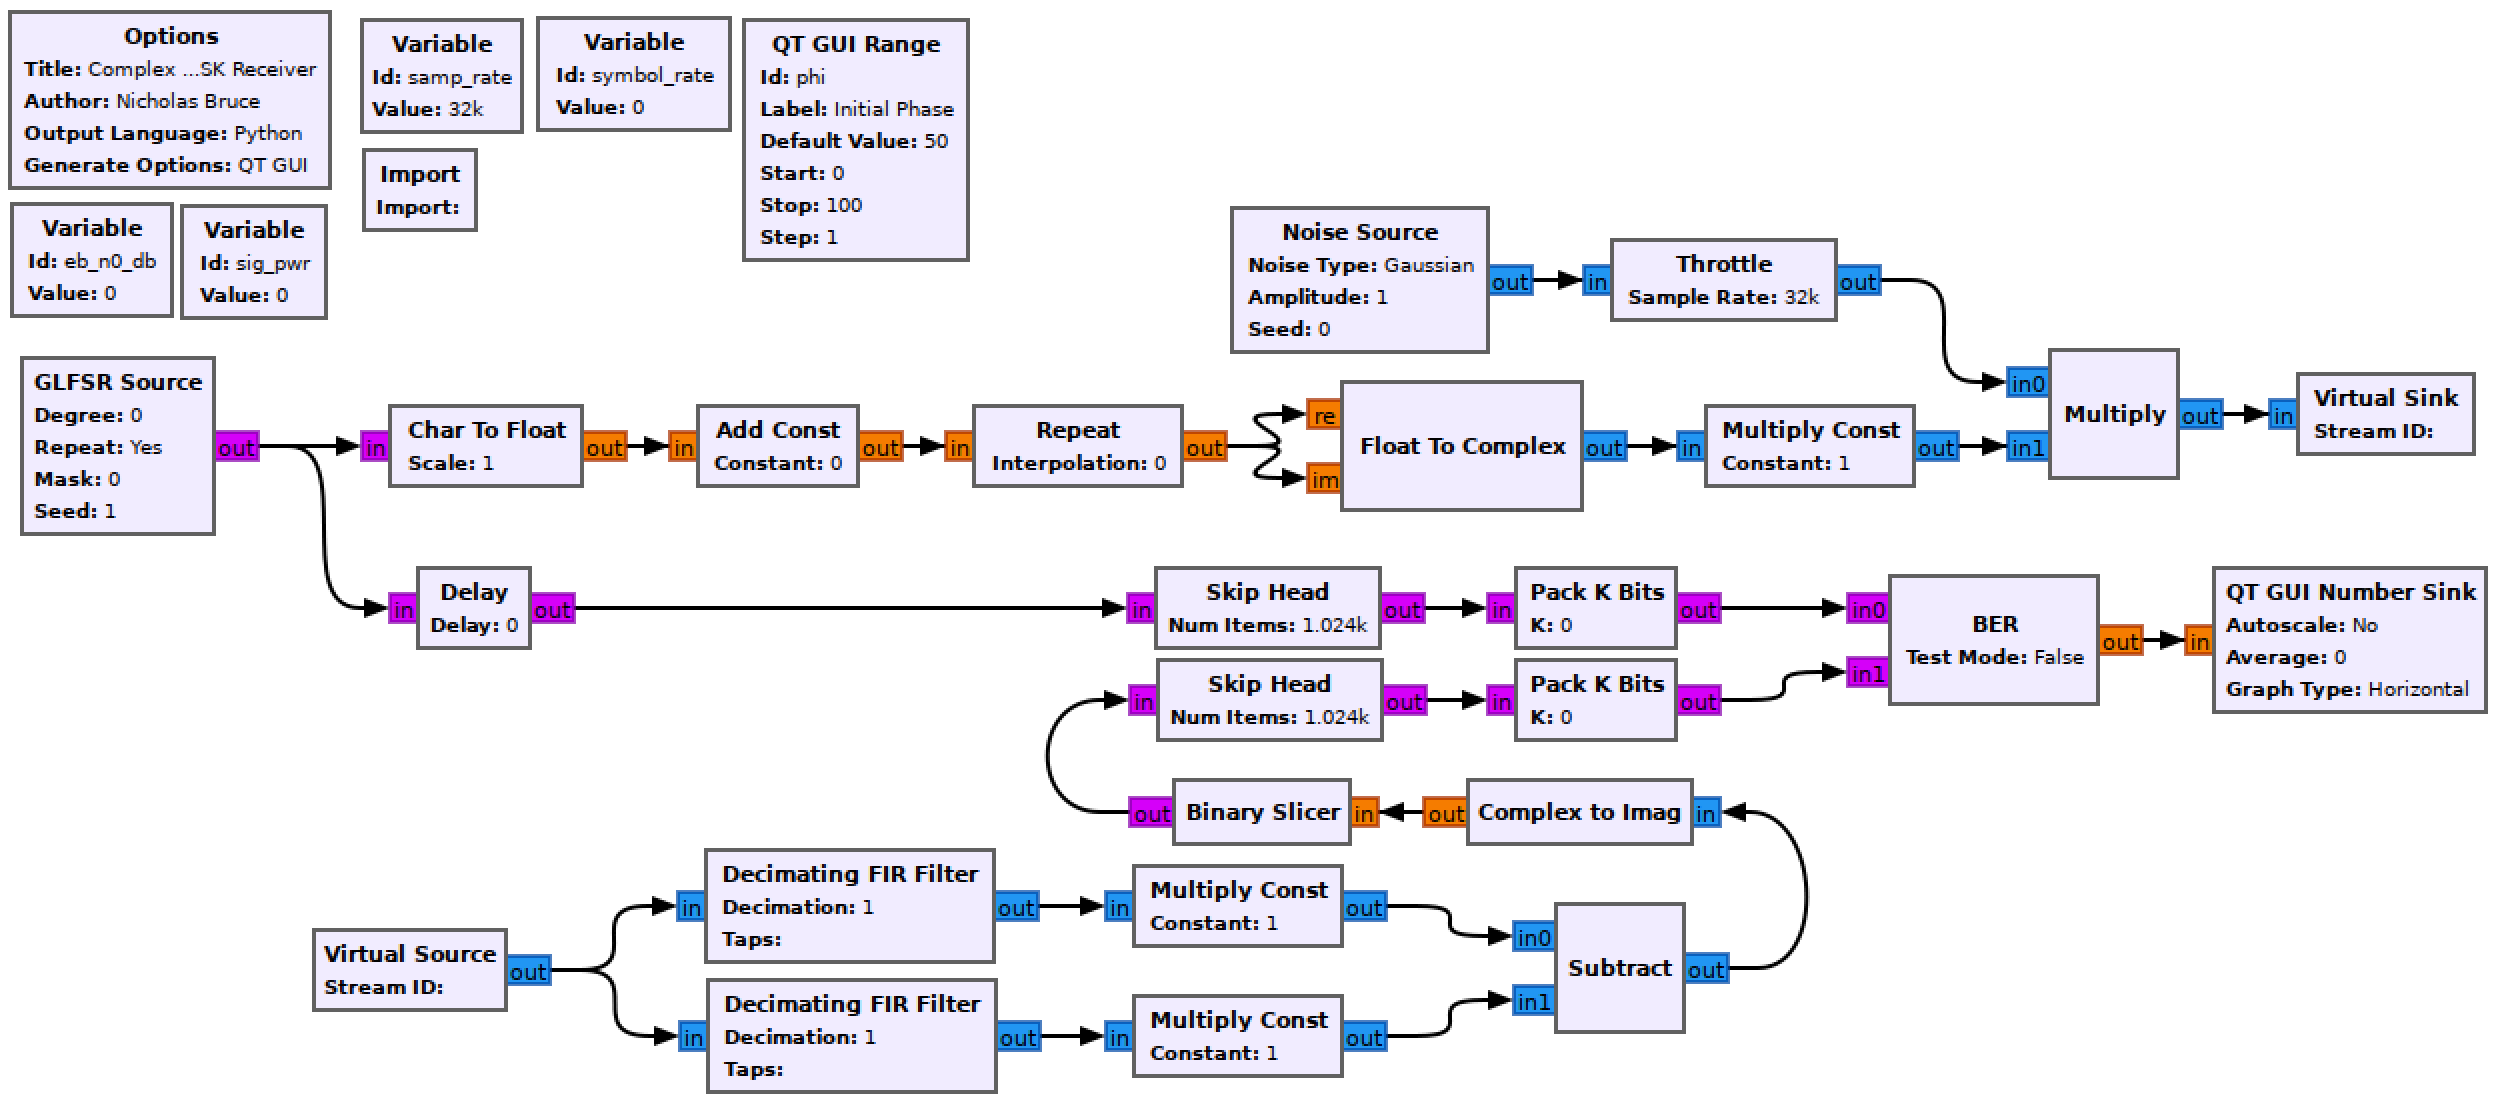
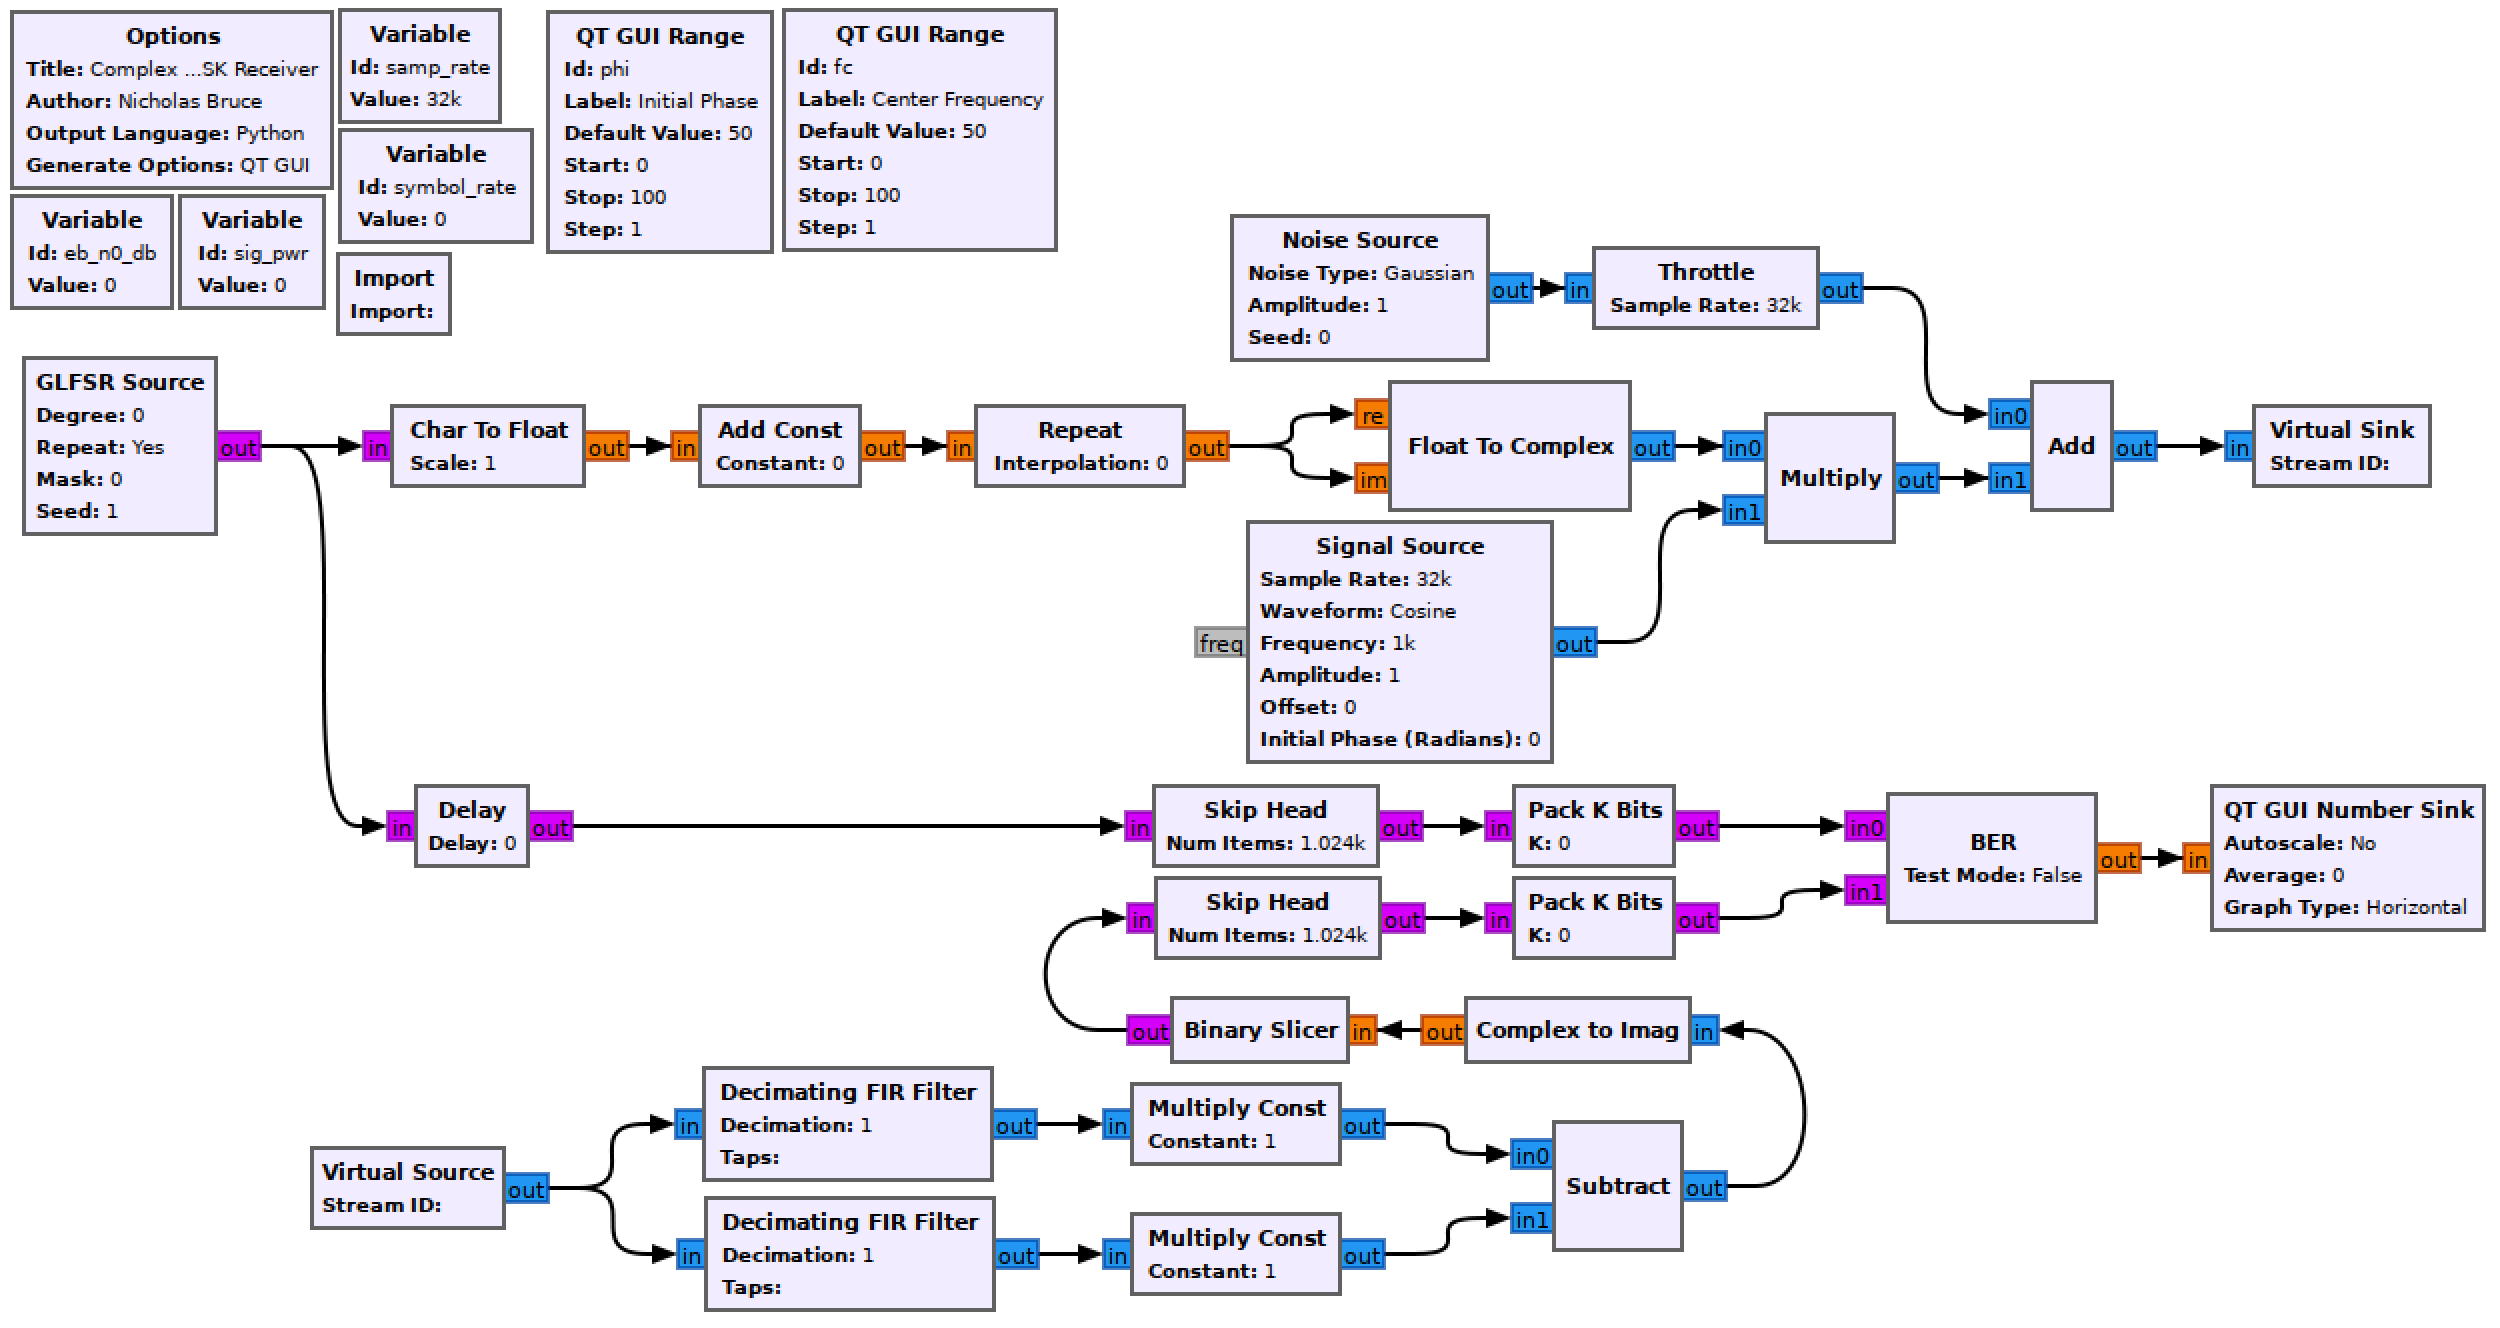
Peter edits

diff --git a/_ece450/lab4/psk-modulator.md b/_ece450/lab4/psk-modulator.md
@@ -18,7 +18,7 @@ You will build and study a complex baseband BPSK modulator as well as a real pas
 
 For this section, the deliverables are:
 
-- the answers to two deliverable questions,
+- the answer to one deliverable question,
 - a flowgraph to reuse later in the lab.
 
 ---
@@ -38,8 +38,8 @@ Construct the following GRC flowgraph.
 
 Use the blocks in the above figure to create an M-sample-per-symbol complex BB BPSK signal. The signal should have peaks of 1 and -1, be pseudo-random, and the scope should show an output like the below figure (which matches the [theory section of the lab]({{ site.baseurl }}{% link _ece450/lab4/theory.md %})).
 
-  ![complex-bpsk-PB-tx-blank-flowgraph.png](figures/complex-bpsk-PB-tx-blank-flowgraph.png)<br>
-  __*Blank complex passband BPSK modulator flowgraph*__
+  ![complex-bpsk-BB-tx-waveform.png](figures/complex-bpsk-BB-tx-waveform.png)<br>
+  __*Complex baseband BPSK waveform.*__
 
 ## Building the passband flowgraph
 
@@ -54,24 +54,25 @@ The sample and symbol rates are unchanged. Use the *Import* block to `import num
 
 ### QT GUI Range
 
-This block will be used to set the initial phase of the carrier frequency. Set the *Id* to `phi`. The initial value should be `-np.pi/4` and the range should go from `-np.pi` to `np.pi` in small steps (use your best judgement).
+The first will be used to set the initial phase of the carrier frequency. Set the *Id* to `phi`. The initial value should be 0 and the range should go from `-np.pi` to `np.pi` in small steps (use your best judgement).
+
+The second will be used to cause a frequency offset from baseband (by having a carrier frequency) later in the lab. Set the *Id* to `fc`. The initial value should be 0 and the range should go from 0 to `2*symbol_rate`.
 
 ### Signal Source
 
-This block multiplies in a carrier frequency. Set the *Frequency* to `symbol_rate` and the *Initial Phase* to `phi`.
+This block multiplies in a carrier frequency. Set the *Frequency* to `fc` and the *Initial Phase* to `phi`.
 
 ## Run the experiment
 
-1. Run the flowgraph and observe the waveform. Since the carrier frequency is equal to the symbol rate the flowgraph, there should be one period of the sine/cosine contained in each symbol.
-2. Change the *QT GUI Time Sink* to be *Type* "Float" and to have 3 inputs. Use a *Complex To Float* block at the output of the *Mutiply* block. The three inputs to the time sink are then $$\mathbb{Re}\{s(t)\}$$, $$\mathbb{Im}\{s(t)\}$$, and the M-sample-per-symbol bitstream. Observe the passband waveform as you change $$\phi$$.
+1. Run the flowgraph and observe the waveform. Set the frequency offset to 1200. Since the carrier frequency is now equal to the symbol rate the flowgraph, there should be one period of the sine/cosine contained in each symbol.
+2. Change the *QT GUI Time Sink* to be *Type* "Float" and to have 3 inputs. Use a *Complex To Float* block at the output of the *Mutiply* block. The three inputs to the time sink are then $$\mathbb{Re}\{s(t)\}$$, $$\mathbb{Im}\{s(t)\}$$, and the M-sample-per-symbol bitstream. Observe the passband waveform as you change $$\phi$$ and $$\delta f$$.
 
   ![complex-bpsk-PB-tx-waveform.png](figures/complex-bpsk-PB-tx-waveform.png)<br>
-  __*Complex passband BPSK waveform ($$\phi=-\frac{\pi}{4}$$).*__
+  __*Complex passband BPSK waveform ($$\phi=-\frac{\pi}{4}, f_c=1200 \text{ Hz}$$).*__
 
-{% include alert.html title="Deliverable question 1" class="info" content="In the figure above (and the simulation!) what implication on __demodulation__ does changing the initial phase have?"%}
+{:start="3"}
+3. Set the frequency offset back to 0. Observe the waveform while changing $$\phi$$.
 
-3. Set the *Frequency* of the *Signal Source* to 0. Observe the waveform while changing $$\phi$$.
-
-{% include alert.html title="Deliverable question 2" class="info" content="When $$f_c=0$$, the waveform does not necessarily look as it did for the [complex baseband version](#building-the-baseband-flowgraph). How does the phase change this even with a signal frequency of 0? Think back to the theory section and the definition of $$\tilde{s}(t)$$."%}
+{% include alert.html title="Deliverable question 1" class="info" content="When $$f_c=0$$ and $$\phi \neq 0$$, the waveform does not look as it did for the [complex baseband version](#building-the-baseband-flowgraph). How does the phase change this even with a signal frequency of 0? Think back to the theory section and the definition of $$\tilde{s}(t)$$."%}
 
 Review the [section deliverables](#part-2-deliverables) before moving on.

diff --git a/_ece450/lab4/coherent-bpsk-demodulator.md b/_ece450/lab4/coherent-bpsk-demodulator.md
@@ -32,23 +32,23 @@ Construct the following GRC flowgraph. You can make a copy of the modulating flo
 
 ### Modulator
 
-Keep the variables and the rest of the modulation chain unchanged. Change the *QT GUI Range* "Default" value to 0. Notice that in place of the *Signal Source* block there is now a *Multiply Const* block. Set the argument to $$e^{j\phi}$$ with `np.exp(1j*phi)`.
+Keep the variables and the rest of the modulation chain unchanged.
 
-Notice that since the M-sample-per-symbol bitstream is used for _both_ the real and the imaginary components of the complex stream, the `sig_pwr` value is 2. This can be confirmed with the a *Complex To Mag^2* -> *Moving Average* -> *QT GUI Number Sink* chain.
+Notice that since the M-sample-per-symbol bitstream is used for _both_ the real and the imaginary components of the complex stream, the `sig_pwr` value is 2. This can be confirmed with the a *Complex To Mag^2* -> *Moving Average* -> *QT GUI Number Sink* chain from previous labs.
 
 ### Noise Source
 
-Remember that the *Amplitude* variable sets the noise standard deviation, $$\sigma$$. Use the following expression to set $$\sigma$$ using the `eb_n0_db` variable.
+Remember from previous labs that the *Amplitude* variable sets the noise standard deviation, $$\sigma$$. Use the following expression to set $$\sigma$$ using the `eb_n0_db` variable.
 
 ```python
 math.sqrt( sig_pwr/ (10**(eb_n0_db/10)) * samp_rate/symbol_rate )
 ```
 
-This is the same expression as from the theory but where $$\frac{E_b}{N_0}$$ is in units of dB.
+This is the same expression as from the [theory section of the previous lab]({{ site.baseurl }}{% link _ece450/lab3/theory.md %}) but where $$\frac{E_b}{N_0}$$ is in units of dB.
 
 ### Receiver chain
 
-This is a coherent receiver which relies on correlating the waveform with taps for a BPSK "1" and "0" and seeing which has a stronger correlation.
+This is a coherent receiver which relies on correlating the waveform with taps for a BPSK "+1" (data 1) and "-1" (data 0) and seeing which has a stronger correlation.
 
 ### Decimating FIR Filter
 
@@ -65,6 +65,8 @@ and the taps of the lower chain to
 ```
 
 These taps will match an M-sample-per-symbol complex baseband "1" and "0" respectively. Set the decimation rate to `samp_rate//symbol_rate` to match the *Repeat* block from earlier.
+
+{% include alert.html title="Note" content="These taps are for the baseband signal. As the center frequency and phase sliders change, the signal is modulated by the changing $$f_c$$ and $$\phi$$ but the taps _do not change_. So the center frequency can be consider a frequency offset and the phase can be considered a phase offset."%}
 
 ### Multiply Const
 
@@ -104,9 +106,10 @@ This will draw the output of the BER block on a number line. Set the maximum to 
 2. Record the BER at $$\frac{E_b}{N_0}$$ values of `[0, 2, 4, 6, 8]`. You will need to kill the flowgraph each time you need to set a new value.
    - Plotting GUI sink values also eats computational power. While waiting for the BER values to stabilize you may wish to disable any unneeded QT GUI blocks.
 3. Put a `0*` in front of the *Noise Amplitude* argument. Restart the flowgraph and confirm that the BER is 0 (meaning no bit errors). Now change $$\phi$$ by a very small amount. Observe the BER rising.
+4. Set $$\phi$$ back to 0 and change $$f_c$$ by a small amount. Observe the BER rising.
 
 At this point you should have recorded 5 BER values.
 
-{% include alert.html title="Deliverable question 3" class="info" content="What does changing $$\phi$$ tell you about the phase coherency requirement of the receiver? How would a system like this be built in real life (i.e. how could coherency be maintained between transmitter and receiver)?"%}
+{% include alert.html title="Deliverable question 2" class="info" content="What does changing $$\phi$$ and $$f_c$$ tell you about the phase coherency and frequency stability requirement of the receiver? How would a system like this be built in real life (i.e. how could coherency be maintained between transmitter and receiver)?"%}
 
 Review the [section deliverables](#part-3-deliverables) before moving on.

diff --git a/_ece450/lab4/theory.md b/_ece450/lab4/theory.md
@@ -44,7 +44,7 @@ Notice that $$\mathbb{Im}\{\tilde{s}(t)\}$$ is hidden behind $$\mathbb{Re}\{\til
 
 _ECE350 text section 7.6.1, Sklar text section 4.5.1._ Another method of using phase information to modulate bits is differential encoding. Instead of each bit being assigned a starting phase, a phase shift is assigned to whether a bit changes or not. For example, taking the same bit stream from above `[0, 1, 1, 0, 1]` is differentially encoded as `[1, 1, 0, 1, 1, 0]`. The first `1` is arbitrary. From then on a `1` represents a change from the previously encoded bit to the next message bit while `0`'s represent no change.
 
-Generally DPSK performs worse than normal BPSK as errors propogate across bits easier. The benefit to DPSK is that a receiver does not need a reference phase and can operate noncoherently.
+Differential encoding is essential for PSK because the absolute phase of the received signal generally cannot be determined. However, one bit error in DPSK results in 2 bit errors after differential decoding.
 
 ## 1.2 BPSK Demodulation
 
@@ -57,9 +57,14 @@ _Sklar text section 4.4.1._ As each bit is encoded with a starting phase, correl
 
 ### 1.2.2 Noncoherent DPSK
 
-_ECE350 text section 7.6, Sklar text section 4.7.5._ As the DPSK transmitter encoded every phase shift with a single bit. Considering every possible phase shift is between two bits, a similar receiver to the coherent BPSK receiver can be built with 4 arms of $$2T$$ taps each. There will be one set of taps for each modulated bit sequence of `[0, 0]`, `[0, 1]`, `[1, 0]`, `[1, 1]`. Correlating the differentially encoded bitstream against these taps will deliver the decoded sequence.
+_ECE350 text section 7.6, Sklar text section 4.7.5._ As the DPSK transmitter encoded every phase shift with a single bit. Considering every possible phase shift is between two bits, a similar receiver to the coherent BPSK receiver can be built with 4 arms of $$2T$$ taps each (see upper block diagram in the figure below). There will be one set of taps for each modulated bit sequence of `[0, 0]`, `[0, 1]`, `[1, 0]`, `[1, 1]`. Correlating the differentially encoded bitstream against these taps will deliver the decoded sequence.
 
-Since $$corr($$`[1, 1]` $$,$$`[0, 0]` $$) = - corr($$`[1, 1]`$$,$$`[1, 1]`$$)$$, and $$corr($$`[1, 0]` $$,$$`[0, 1]` $$) = - corr($$`[0, 1]`$$,$$`[1, 0]`$$)$$, by comparing the magnitude of the correlation results the 4 taps receiver can be simplified to a 2 taps receiver, the taps for which are shown below.
+Since $$corr($$`[1, 1]` $$,$$`[0, 0]` $$) = - corr($$`[1, 1]`$$,$$`[1, 1]`$$)$$, and $$corr($$`[1, 0]` $$,$$`[0, 1]` $$) = - corr($$`[0, 1]`$$,$$`[1, 0]`$$)$$, by comparing the magnitude of the correlation results the 4 taps receiver can be simplified to a 2 taps receiver (see lower block diagram in the figure below.
+
+  ![theory-dpsk-demod.png](figures/theory-dpsk-demod.png)<br>
+  __*Flow graph showing the 4 arm demodulator and the equivalent 2 arm demodulator (Sklar figure 4.26).*__
+
+The taps for the two arms that match the earlier waveform are shown below.
 
   ![theory-dpsk-taps.png](figures/theory-dpsk-taps.png)<br>
   __*Taps for a noncoherent DPSK receiver matching earlier waveform. `[1, 1]` on left and `[1, 0]` on right.*__
@@ -88,7 +93,6 @@ The two binary phase shift keying encoding and decoding schemes being investigat
 
 1. Coherent BPSK
 2. Noncoherent DPSK
-<!-- 3. Coherent DPSK -->
 
 The BER curves for these schemes is illustrated in the following figure.
 

diff --git a/_ece450/lab4/noncoherent-dpsk-demodulator.md b/_ece450/lab4/noncoherent-dpsk-demodulator.md
@@ -18,7 +18,7 @@ You will implement a complex noncoherent baseband DPSK receiver.
 
 For this section, the deliverables are:
 
-- the answers to one deliverable questions,
+- the answers to two deliverable questions,
 - a dataset for later use in this lab.
 
 ---
@@ -58,9 +58,9 @@ The lower is taps for `[1, 1]` and so should be set to
 np.concatenate((taps1, taps1)).
 ```
 
-Ensure the "Decimation" paramter is set appropriately to bring the signal down to 1-sample-per-symbol.
+Ensure the "Decimation" parameter is set appropriately to bring the signal down to 1-sample-per-symbol.
 
-### Complex To Mag^2
+### Complex to Mag^2
 
 These blocks take the envelope of the signal.
 
@@ -95,9 +95,15 @@ This will draw the output of the BER block on a number line. Set the maximum to 
 1. Run the flowgraph.
 2. Record the BER at $$\frac{E_b}{N_0}$$ values of `[0, 2, 4, 6, 8]`. You will need to kill the flowgraph each time you need to set a new value.
    - Plotting GUI sink values also eats computational power. While waiting for the BER values to stabilize you may wish to disable any unneeded QT GUI blocks.
-3. Change $$\phi$$ as you go and see that it has no impact on the BER value.
+3. Put a *QT GUI Time Sink* and a *QT GUI Constellation Sink* at the end of the modulation chain to observe the transmitted signal waveform and constellation.
+4. Change $$\phi$$ slowly and see that while the waveform changes, the BER value does not.
 
-{% include alert.html title="Deliverable question 4" class="info" content="It should be clear that since the $$\phi$$ value does not change the BER that this is a noncoherent receiver. What are the advantages of implementing a physical system like this? In what scenario would a coherent receiver be necessary?"%}
+{% include alert.html title="Deliverable question 3" class="info" content="It should be clear that since the $$\phi$$ value does not change the BER that this is a noncoherent receiver. What are the advantages of implementing a physical system like this? In what scenario would a coherent receiver be necessary?"%}
+
+{:start="5"}
+5. Put a `0*` in front of the *Amplitude* parameter of the *Noise Source* block. Slowly increase $$f_c$$ and while observing the waveform and the BER, find the frequency offset at which the BER starts to rise.
+
+{% include alert.html title="Deliverable question 4" class="info" content="At what frequency offset does the receiver stop working? What is the cause of this? What implication does it have on real DPSK receiver implementations?"%}
 
 At this point you should have recorded 5 BER values.
 

diff --git a/_ece450/lab4/introduction.md b/_ece450/lab4/introduction.md
@@ -15,7 +15,6 @@ In this lab, you will use GNURadio to build a M-samples per symbol BPSK simulati
 You will learn about:
 
 - coherent BPSK
-<!-- - coherent DPSK -->
 - noncoherent DPSK
 
 <!-- ## Prelab
